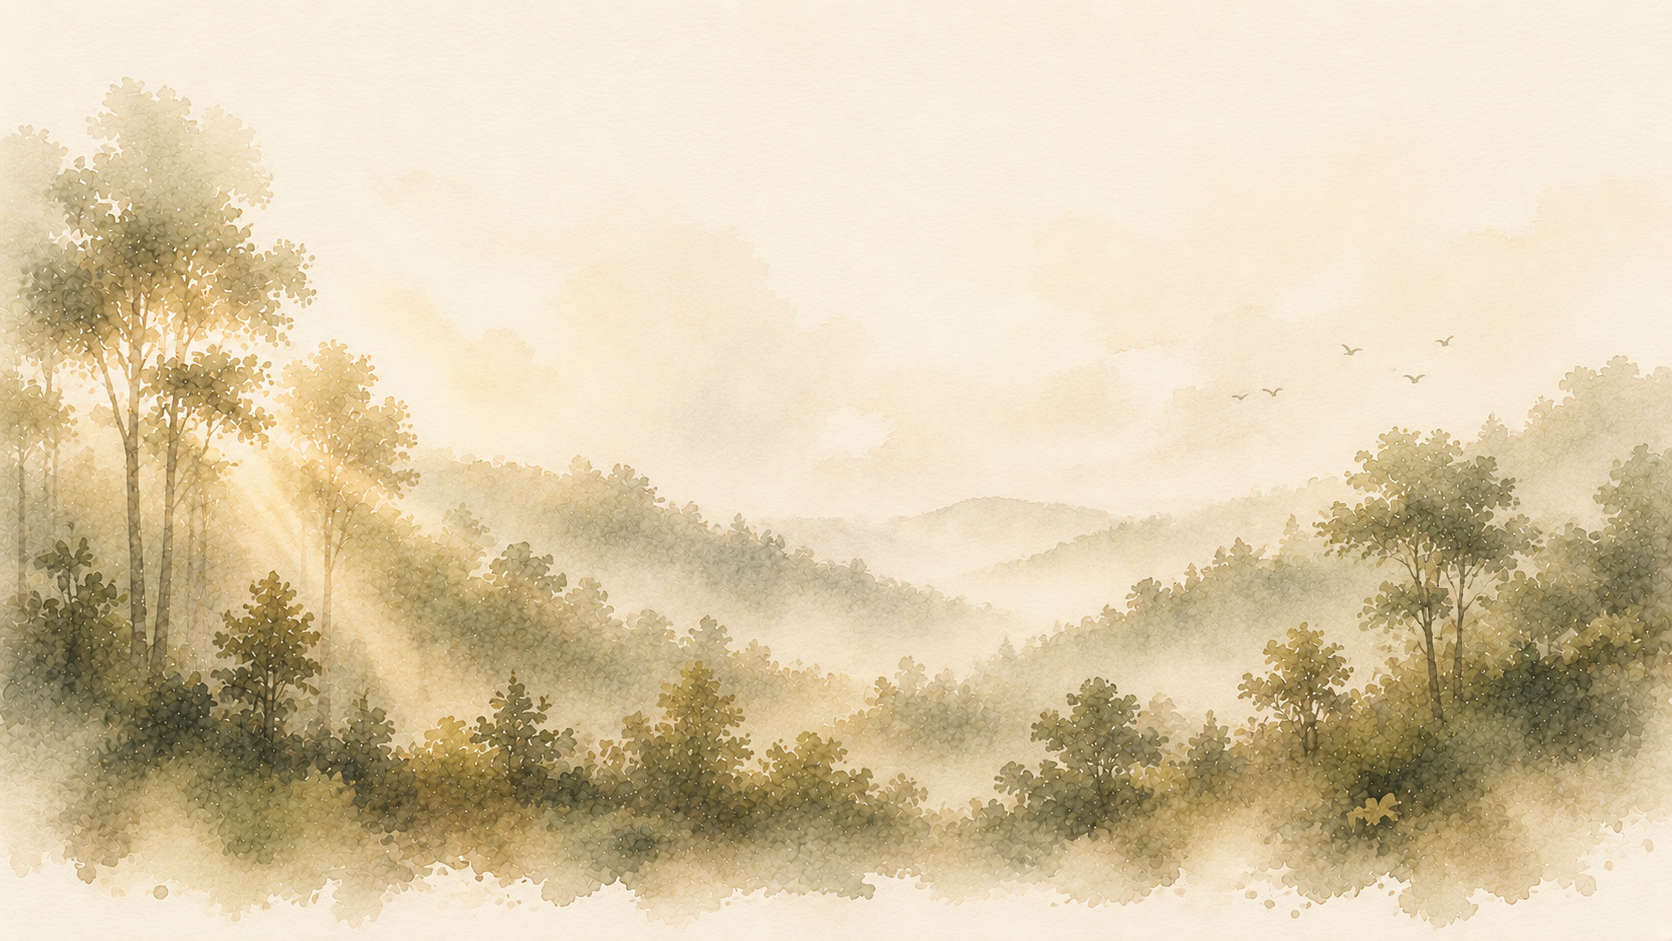
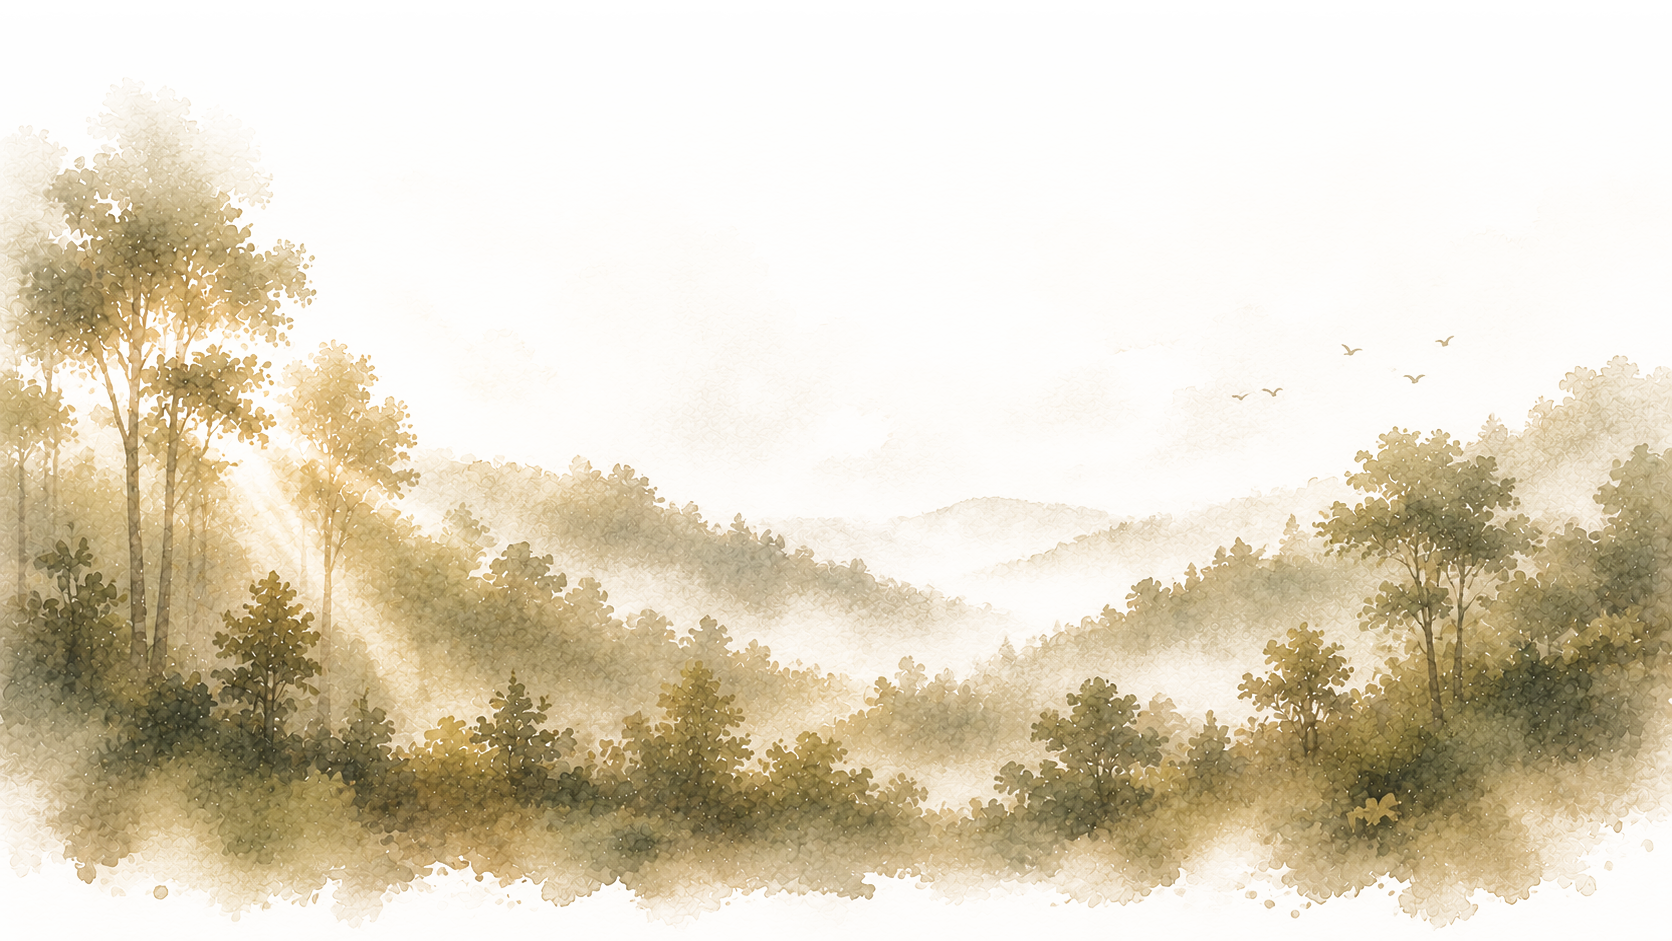
finalize Batch 3 Review 3 Footer Clean

diff --git a/index.html b/index.html
@@ -1076,6 +1076,32 @@ footer.global-footer {
   .knowledge-accordion-body { padding: 0 17px 20px; }
 }
 
+
+
+/* ===== Batch 3 Review 3 Footer Clean =====
+   Gunakan panorama PNG transparan tanpa lapisan putih, mist overlay, atau gradient penutup. */
+footer.global-footer {
+  background-color: transparent !important;
+  background-image: url('assets/living-knowledge/B01-Forest-Panorama.png') !important;
+  background-repeat: no-repeat !important;
+  background-position: center bottom !important;
+  background-size: cover !important;
+  min-height: 250px;
+  padding: 142px max(18px, calc((100vw - 1180px)/2)) 28px;
+}
+footer.global-footer::before,
+footer.global-footer::after {
+  content: none !important;
+  display: none !important;
+  background: none !important;
+}
+@media (max-width:760px) {
+  footer.global-footer {
+    min-height: 215px;
+    padding: 120px 18px 24px;
+    background-position: center bottom !important;
+  }
+}
 </style>
 </head>
 <body>
@@ -1273,7 +1299,7 @@ footer.global-footer {
     <div class="back-row"><button class="back-button" id="content-back" data-route="pendopo">← Kembali</button></div>
   </section>
 
-  <footer class="global-footer"><span>Bhumi Wanaprastha v0.9 · Batch 3 Review 2</span><span>Pengetahuan yang menjadi laku.</span></footer>
+  <footer class="global-footer"><span>Bhumi Wanaprastha v0.9 · Batch 3 Review 3 Footer Clean</span><span>Pengetahuan yang menjadi laku.</span></footer>
 </main>
 <script src="content/_generated/content-manifest.js"></script>
 <script src="content/content.js"></script>

diff --git a/README.md b/README.md
@@ -1,16 +1,44 @@
-# Bhumi Wanaprastha v0.7.1
+# Bhumi Wanaprastha v0.9 · Batch 3 Review 3
 
-Versi ini memisahkan isi dari mesin tampilan.
+Sebuah ruang untuk mengembangkan pengetahuan yang menjadi laku.
 
 ## Struktur utama
-- `index.html` — sistem tampilan, navigasi, dan pembaca konten.
-- `content/content.js` — isi Jejak Gagasan dan data publikasi/kebun.
-- `apps/` — aplikasi web yang ditanamkan.
 
-Untuk menambah atau memperbarui tulisan, bagian utama yang diedit adalah `content/content.js`. Struktur halaman tidak perlu dibongkar lagi.
+- `index.html` — mesin tampilan, navigasi, pencarian, dan pembaca konten.
+- `content/` — sumber konten Markdown menurut ruang: Gagasan, Renungan, Laku, Karya, dan Kebun.
+- `content/_generated/content-manifest.js` — indeks hasil olahan Markdown yang dibaca website.
+- `scripts/build-content.mjs` — generator manifest konten.
+- `images/` dan `assets/` — gambar serta aset pendukung.
+- `apps/` — aplikasi web yang hidup di dalam ekosistem Bhumi Wanaprastha.
 
+Folder yang tampil di GitHub sebagai `images/karya/rumah-papakmanggu` bukan folder bernama tunggal. GitHub hanya merangkum rantai folder yang masing-masing memiliki satu anak. Struktur sebenarnya tetap:
 
-## Hotfix v0.7.1
-- Tombol kembali Bhumi Wanaprastha tidak lagi menindih judul aplikasi Pranata Mangsa.
-- Respons API kosong/tidak valid kini ditangani tanpa error JSON mentah.
-- Observasi lokal tetap tersimpan ketika layanan analisis AI belum tersedia.
+```text
+images/
+└── karya/
+    └── rumah-papakmanggu/
+```
+
+## Memperbarui konten untuk sementara
+
+Setelah mengubah file `.md`, jalankan generator sebelum commit:
+
+```bash
+git pull origin main
+node scripts/build-content.mjs
+git add .
+git commit -m "Regenerate content manifest"
+git push origin main
+```
+
+Di Windows, generator juga dapat dijalankan dengan klik dua kali `UPDATE CONTENT.bat`.
+
+## Publikasi
+
+Repository terhubung ke Cloudflare Workers. Setiap commit ke branch `main` memicu deployment otomatis.
+
+Catatan batas aset Cloudflare Workers: satu file statis tidak boleh melebihi 25 MiB. Audio dan video besar sebaiknya ditempatkan di layanan eksternal atau penyimpanan objek, lalu ditautkan dari website.
+
+## Rencana batch berikutnya
+
+Cloudflare akan dikonfigurasi untuk menjalankan `node scripts/build-content.mjs` sebelum deployment. Setelah itu, pengeditan Markdown dari GitHub atau ponsel tidak lagi memerlukan regenerasi manifest secara manual.

diff --git a/CHANGELOG-v0.9-BATCH-3-REVIEW-3-CLEAN.md b/CHANGELOG-v0.9-BATCH-3-REVIEW-3-CLEAN.md
@@ -1,0 +1,14 @@
+# Bhumi Wanaprastha v0.9 · Batch 3 Review 3 Clean
+
+## Perbaikan paket
+
+- Paket disusun ulang dari repository GitHub terbaru sebagai sumber dasar.
+- `content/_generated/content-manifest.js` diregenerasi dari seluruh file Markdown terbaru.
+- Perubahan narasi suasana malam pada proyek **Melanjutkan yang Sudah Ada** kini masuk ke manifest dan akan tampil di website.
+- File audio `.m4a` yang melebihi batas 25 MiB dipastikan tidak ada dalam paket.
+- Struktur `images/karya/rumah-papakmanggu/` diverifikasi benar; tampilan path gabungan di GitHub hanyalah penyederhanaan antarmuka.
+- README dan petunjuk publikasi diperbarui agar sesuai dengan sistem v0.9 dan alur GitHub–Cloudflare saat ini.
+
+## Catatan untuk batch berikutnya
+
+Cloudflare perlu menjalankan `node scripts/build-content.mjs` sebelum deployment agar perubahan Markdown dari GitHub dapat langsung terbit tanpa regenerasi manual.

diff --git a/content/laku/wedang-jahe-klasik.md b/content/laku/wedang-jahe-klasik.md
@@ -47,10 +47,9 @@ relations:
     label: Dilanjutkan melalui pengamatan kebun
 ---
 
-## Catatan praktik
-
-Takaran ini adalah titik awal. Jahe muda, jahe tua, jahe merah, dan jahe emprit dapat menghasilkan intensitas berbeda. Catat jenis jahe, jumlah pemanis, lama perebusan, cuaca, dan respons tubuh bila resep ini hendak dijadikan percobaan pribadi.
+## Cara membuat
+Halaman ini masih percobaan. Daripada menulis 
+Lorem ipsum dolor sit amet, lebih baik kita bikin Wedang Jahe.Takaran ini adalah titik awal. Jahe muda, jahe tua, jahe merah, dan jahe emprit dapat menghasilkan intensitas berbeda. Catat jenis jahe, jumlah pemanis, lama perebusan, cuaca, dan respons tubuh bila resep ini hendak dijadikan percobaan pribadi.
 
 ## Variasi sederhana
-
 Kayu manis, serai, atau perasan jeruk dapat ditambahkan satu per satu. Mengubah terlalu banyak bahan sekaligus membuat pengaruh setiap perubahan sulit dibaca. Manusia memang gemar menyebut campuran sepuluh bahan sebagai eksperimen, lalu heran ketika tidak tahu apa yang sebenarnya bekerja.

diff --git a/CHANGELOG-v0.9-BATCH-3-REVIEW-3-FOOTER-CLEAN.md b/CHANGELOG-v0.9-BATCH-3-REVIEW-3-FOOTER-CLEAN.md
@@ -1,0 +1,6 @@
+# Bhumi Wanaprastha v0.9 · Batch 3 Review 3 Footer Clean
+
+- Mengubah `B01-Forest-Panorama.png` menjadi PNG RGBA transparan.
+- Menghilangkan lapisan putih, gradient, dan mist overlay pada footer.
+- Footer sekarang hanya memakai panorama transparan yang menyatu langsung dengan warna halaman.
+- Tata letak full-bleed dan teks footer dipertahankan.

diff --git a/content/karya/infografik-tanaman-rimpang.md b/content/karya/infografik-tanaman-rimpang.md
@@ -25,7 +25,8 @@ relations:
 
 ## Tujuan karya
 
-Infografik ini belum dimaksudkan sebagai produk visual final. Ia berfungsi sebagai node percontohan untuk menunjukkan bahwa sebuah karya dapat lahir dari gagasan, pengalaman, praktik, dan hasil pengamatan kebun.
+Infografik ini belum dimaksudkan sebagai produk visual final. Daripada menulis 
+Lorem ipsum dolor sit amet, lebih baik seolah-olah kita membahas tentang Jahe.
 
 ## Isi yang direncanakan
 

diff --git a/content/gagasan/mengapa-jahe-menghangatkan-tubuh.md b/content/gagasan/mengapa-jahe-menghangatkan-tubuh.md
@@ -23,6 +23,8 @@ relations:
 
 ## Dari pengalaman menuju pertanyaan
 
+Halaman ini masih percobaan. Daripada menulis 
+Lorem ipsum dolor sit amet, lebih baik seolah-olah kita membahas tentang Jahe.
 Jahe telah lama digunakan dalam minuman dan masakan Nusantara. Banyak orang menggambarkan sensasi setelah meminumnya sebagai hangat, pedas, dan membuat tubuh terasa lebih nyaman, terutama ketika cuaca dingin atau setelah kehujanan.
 
 Pengalaman tersebut dapat menjadi awal pertanyaan, bukan akhir kesimpulan. Sensasi hangat yang dirasakan tidak sama dengan bukti bahwa suhu inti tubuh selalu meningkat. Rasa pedas dan hangat dapat muncul dari interaksi senyawa jahe dengan sistem sensorik tubuh, sementara pengalaman tiap orang dapat berbeda.

diff --git a/content/kebun/menanam-jahe-di-pekarangan.md b/content/kebun/menanam-jahe-di-pekarangan.md
@@ -26,6 +26,8 @@ relations:
 
 ## Menyiapkan bahan tanam
 
+Halaman ini masih percobaan. Daripada menulis 
+Lorem ipsum dolor sit amet, lebih baik seolah-olah kita membahas tentang penanaman Jahe.
 Pilih rimpang sehat yang tidak lembek atau berjamur dan memiliki mata tunas. Rimpang dapat ditunaskan lebih dahulu di tempat teduh dan lembap sebelum dipindahkan ke media tanam yang gembur serta memiliki drainase baik.
 
 ## Mengamati, bukan sekadar menunggu

diff --git a/content/renungan/mengapa-saya-meminum-wedang-jahe.md b/content/renungan/mengapa-saya-meminum-wedang-jahe.md
@@ -26,6 +26,8 @@ relations:
 
 ## Sebuah jeda kecil
 
+Halaman ini masih percobaan. Daripada menulis 
+Lorem ipsum dolor sit amet, lebih baik seolah-olah kita membahas tentang khasiat Wedang Jahe.
 Wedang jahe tidak perlu dibebani sebagai ramuan yang menyelesaikan segala perkara. Bagi saya, nilainya justru muncul ketika ia menjadi jeda kecil: menunggu air panas, mencium aroma rimpang, lalu memperhatikan keadaan tubuh sebelum dan sesudah meminumnya.
 
 Dari kebiasaan sederhana itu muncul beberapa pertanyaan. Apakah tubuh memang membutuhkan minuman hangat, atau hanya menyukai rasa dan suasananya? Apakah tambahan gula membantu menikmati minuman, atau justru menutupi karakter jahe? Apakah pengalaman hari ini sama ketika cuaca, kondisi tubuh, dan takarannya berubah?